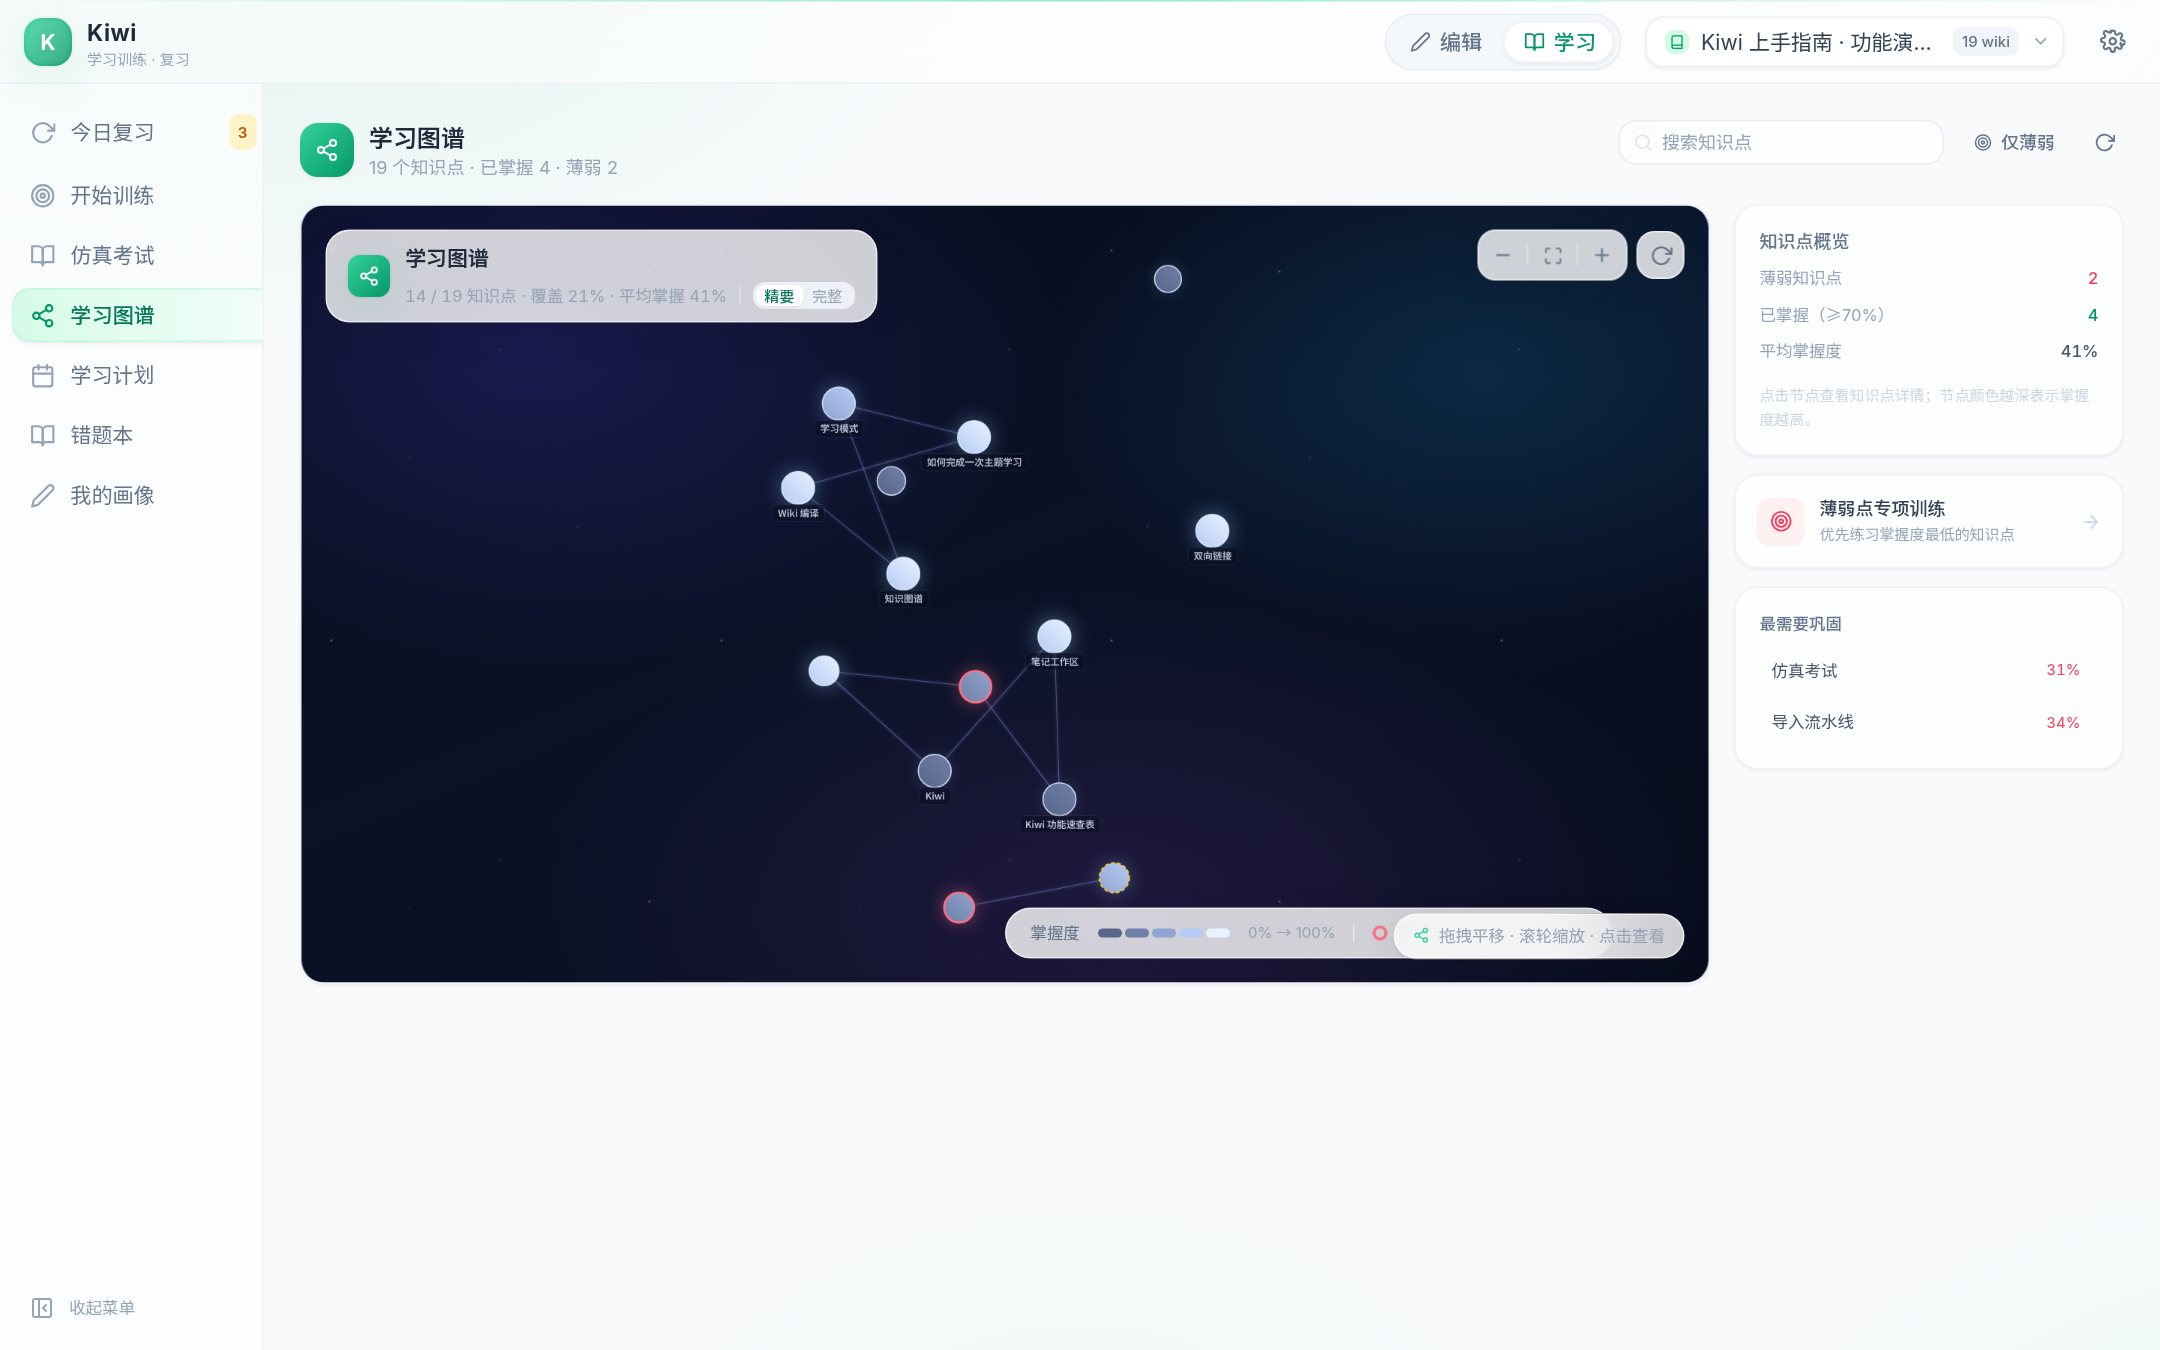
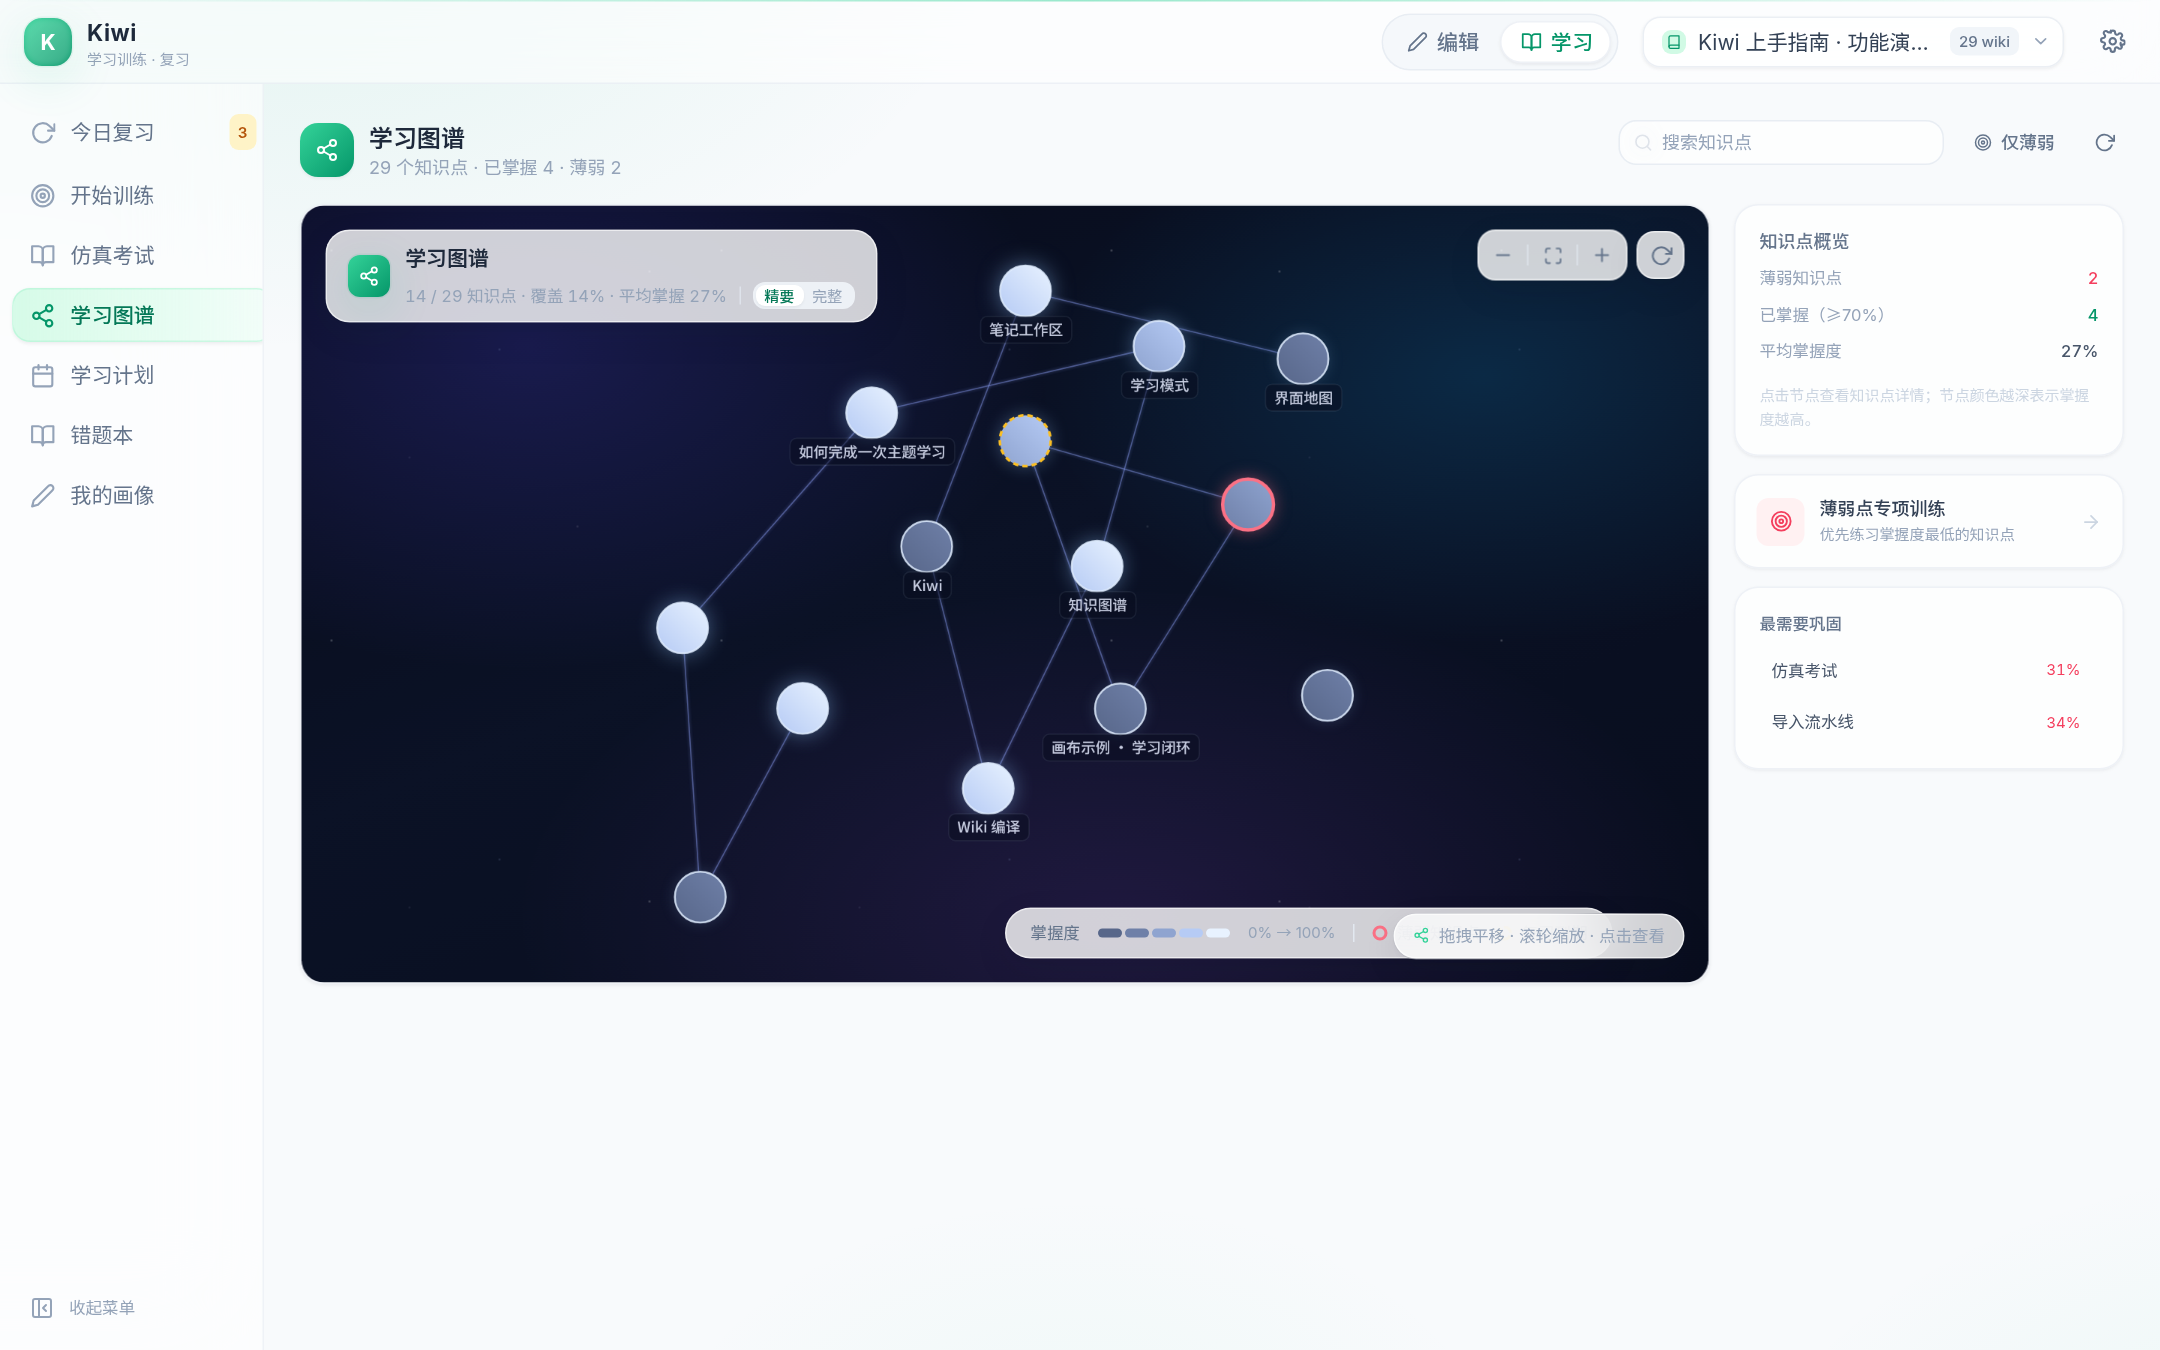
docs: group README screenshots by edit and learn mode
Left column shows the compile-and-organize workspace (knowledge graph,
compile jobs, structured wiki), right column shows the learning loop
(learning graph, exam report, learning plan).

diff --git a/README.md b/README.md
@@ -1,11 +1,11 @@
 <p align="center">
-  <img src="docs/assets/screenshots/kb-manager.png" alt="Kiwi 知识库管理" width="920" />
+  <img src="docs/assets/screenshots/notebook.png" alt="Kiwi Notebook 图形化分析" width="920" />
 </p>
 
 <h1 align="center">Kiwi · 知识编译与学习系统</h1>
 
 <p align="center">
-  把零散笔记与素材，编译成一张可以阅读、追问、练习和复习的知识网络。
+  把笔记编译成知识，把知识变成掌握度。
 </p>
 
 <p align="center">
@@ -19,34 +19,46 @@
 
 ---
 
-Kiwi 是一个本地优先的个人知识库系统。文档、PDF、网页、数据表、画布和 Notebook 先成为可编辑的**笔记**；再由编译流水线抽取概念、合并页面、建立引用，长成结构化的 **Wiki**；最后交给学习模式，生成学习计划、练习题、间隔复习和仿真考试。
+Kiwi 不是另一个「把东西存起来」的笔记软件。
 
-它想解决的不只是「知识存在哪里」，而是知识如何被**读懂、连接、练习和记住**。
+文档、PDF、网页、数据表、画布与 Notebook 在这里是原材料：编译流水线把它们拆成概念、合并成相互引用的 Wiki 页面，并为每一条结论保留来源。随后，同一份知识进入学习引擎——画像、训练、间隔重复、仿真考试，掌握度再回写到页面。
 
-## 核心功能
+大多数工具在「记下来」处结束。Kiwi 继续追问：**你怎么知道自己真的学会了？**
+
+## 为什么不同
+
+- **知识是编译出来的。** 不靠手工维护目录，而由 Schema、增量编译与引用关系让结构自己长出来。
+- **图谱也是掌握度地图。** 页面引用、笔记关联、薄弱点与掌握度共用一套坐标；既看知识怎么连，也看哪里还没学会。
+- **学习闭环长在知识库里。** 出题、复习、考试与掌握度更新都在库内完成，不需要把内容导出到另一个工具。
+- **本地优先，模型可替换。** PostgreSQL + Qdrant 单机运行，兼容任意 OpenAI 协议模型；数据与推理都留在自己的机器上。
+
+## 核心能力
 
 - **笔记工作区**：文档、数据表、导入、外链、画布、Notebook 共用目录、标签、模板与双向链接。
-- **编译任务**：所有笔记和素材统一编译进 Wiki，追踪解析质量、任务进度与受影响页面。
-- **结构化 Wiki**：Schema 驱动的页面生成、增量更新、引用图谱、健康检查与一键重建。
-- **知识图谱**：星图式浏览页面关系，节点大小反映被引次数。
-- **学习闭环**：学习画像 → 计划 → 渐进练习 → 间隔重复 → 仿真考试 → 错题本。
-- **有出处的问答**：基于笔记与 Wiki 的混合检索，回答可溯源，也可回写为 Wiki 页面。
-- **本地优先**：PostgreSQL + Qdrant，兼容任意 OpenAI 协议模型（Ollama 或云端）。
+- **编译任务**：所有笔记与素材统一编译进 Wiki，追踪解析质量、任务进度与受影响页面。
+- **结构化 Wiki**：Schema 驱动、增量更新、来源引用、健康检查与一键重建。
+- **知识星图**：星图式浏览页面关系，节点大小反映被引次数。
+- **学习闭环**：画像 → 计划 → 渐进练习 → 间隔重复 → 仿真考试 → 错题本。
+- **有出处的问答**：混合检索 Wiki 与原文，回答可溯源，也可回写为新页面。
 
 ## 界面
 
 <table>
   <tr>
-    <td width="50%"><img src="docs/assets/screenshots/notes-doc.png" alt="笔记工作区" /><br /><sub>笔记工作区</sub></td>
-    <td width="50%"><img src="docs/assets/screenshots/compile-jobs.png" alt="编译任务" /><br /><sub>编译任务</sub></td>
+    <th width="50%" align="left">编辑模式 · 编译与组织</th>
+    <th width="50%" align="left">学习模式 · 练习与检验</th>
   </tr>
   <tr>
-    <td><img src="docs/assets/screenshots/wiki-graph.png" alt="知识图谱" /><br /><sub>知识图谱</sub></td>
-    <td><img src="docs/assets/screenshots/canvas.png" alt="画布" /><br /><sub>画布</sub></td>
+    <td><img src="docs/assets/screenshots/wiki-graph.png" alt="知识星图" /><br /><sub>知识星图：概念关系与被引次数</sub></td>
+    <td><img src="docs/assets/screenshots/learn-graph.png" alt="学习图谱" /><br /><sub>学习图谱：掌握度分布与薄弱点</sub></td>
   </tr>
   <tr>
-    <td><img src="docs/assets/screenshots/database-progress.png" alt="数据表" /><br /><sub>数据表</sub></td>
-    <td><img src="docs/assets/screenshots/learn-graph.png" alt="学习模式" /><br /><sub>学习模式</sub></td>
+    <td><img src="docs/assets/screenshots/compile-jobs.png" alt="编译任务" /><br /><sub>编译任务：从笔记到 Wiki 的流水线</sub></td>
+    <td><img src="docs/assets/screenshots/exam-report.png" alt="仿真考试报告" /><br /><sub>仿真考试：分卷表现与知识点雷达</sub></td>
+  </tr>
+  <tr>
+    <td><img src="docs/assets/screenshots/wiki-page.png" alt="结构化 Wiki" /><br /><sub>结构化 Wiki：来源、引用与反向链接</sub></td>
+    <td><img src="docs/assets/screenshots/learn-plan.png" alt="学习计划" /><br /><sub>学习计划：按掌握度动态排程</sub></td>
   </tr>
 </table>
 
